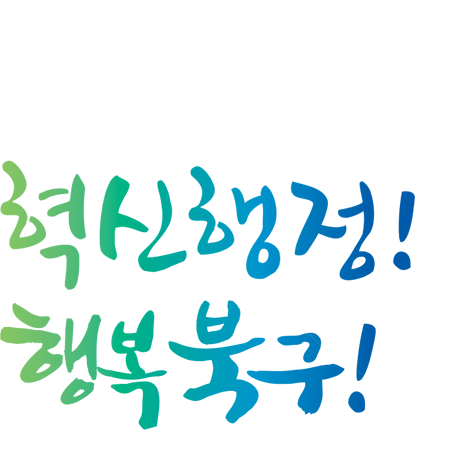
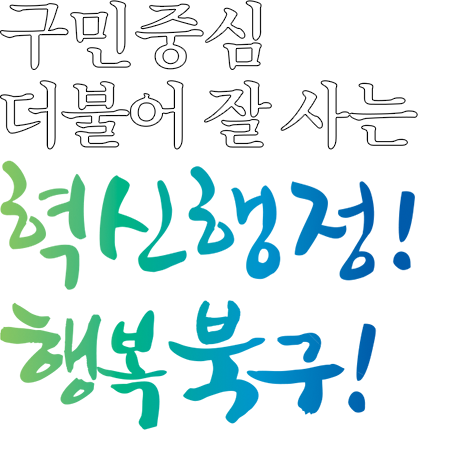
구청

Changed region(s): [[0.0, 0.0, 0.5911, 0.3422], [0.6222, 0.1556, 0.9333, 0.3422], [0.4356, 0.1867, 0.6222, 0.3422]]

diff --git a/북구청_홍보_사이트/js/mdata.js b/북구청_홍보_사이트/js/mdata.js
@@ -1,5 +1,6 @@
-// 메뉴 관련 데이터 JS - mdata.js ///////
+// main.html 메뉴 관련 데이터 JS - mdata.js //
 
+// .gnb의 각 메뉴마다 가지는 고유 데이터
 const mdata01 = {
     "마을공동체 활성화 지원사업": {
         "중흥3동주민자치위원회":[],
@@ -144,73 +145,91 @@ const mdata04 = {
     }
 }; // mdata04 //
 
+// .gnb에서 누른 목록에 따라 실행되는 동영상이나 좌측 목록, 배경색 등을 담은 배열
 let sdata = {
     마을공동체: {
         동영상: "./video/1A01.mp4",
-        사이드메뉴: mdata01
+        사이드메뉴: mdata01,
+        배경색: "blue_bg01"
     },
     마을공동체활성화지원사업: {
         동영상: "./video/1A01.mp4",
-        사이드메뉴: mdata01
+        사이드메뉴: mdata01,
+        배경색: "blue_bg01"
     },
     마을모임지원사업: {
         동영상: "./video/1B01.mp4",
-        사이드메뉴: mdata01
+        사이드메뉴: mdata01,
+        배경색: "blue_bg01"
     },
     광주형협치마을모델사업: {
         동영상: "./video/1C01.mp4",
-        사이드메뉴: mdata01
+        사이드메뉴: mdata01,
+        배경색: "blue_bg01"
     },
     미래학교: {
         동영상: "./video/2A01.mp4",
-        사이드메뉴: mdata02
+        사이드메뉴: mdata02,
+        배경색: "blue_bg02"
     },
     洞마을의제실행력제고워크숍: {
         동영상: "./video/2A01.mp4",
-        사이드메뉴: mdata02
+        사이드메뉴: mdata02,
+        배경색: "blue_bg02"
     },
     분야별성장지원워크숍: {
         동영상: "./video/2A07.mp4",
-        사이드메뉴: mdata02
+        사이드메뉴: mdata02,
+        배경색: "blue_bg02"
     },
     사회적경제기반교육: {
         동영상: "./video/2B01.mp4",
-        사이드메뉴: mdata02
+        사이드메뉴: mdata02,
+        배경색: "blue_bg02"
     },
     마을환경실천활동가양성교육: {
         동영상: "./video/2C01.mp4",
-        사이드메뉴: mdata02
+        사이드메뉴: mdata02,
+        배경색: "blue_bg02"
     },
     마을미디어주민활동가양성교육: {
         동영상: "./video/2C07.mp4",
-        사이드메뉴: mdata02
+        사이드메뉴: mdata02,
+        배경색: "blue_bg02"
     },
     마을분쟁해결지원센터: {
         동영상: "./video/3A01.mp4",
-        사이드메뉴: mdata03
+        사이드메뉴: mdata03,
+        배경색: "blue_bg03"
     },
     북구마을분쟁해결지원센터: {
         동영상: "./video/3A01.mp4",
-        사이드메뉴: mdata03
+        사이드메뉴: mdata03,
+        배경색: "blue_bg03"
     },
     소통방: {
         동영상: "./video/3B01.mp4",
-        사이드메뉴: mdata03
+        사이드메뉴: mdata03,
+        배경색: "blue_bg03"
     },
     부록: {
         동영상: "./video/4A01.mp4",
-        사이드메뉴: mdata04
+        사이드메뉴: mdata04,
+        배경색: "blue_bg04"
     },
     찾아가는어린이환경리더교육: {
         동영상: "./video/4A01.mp4",
-        사이드메뉴: mdata04
+        사이드메뉴: mdata04,
+        배경색: "blue_bg04"
     },
     마을활동가토크쇼: {
         동영상: "./video/4B01.mp4",
-        사이드메뉴: mdata04
+        사이드메뉴: mdata04,
+        배경색: "blue_bg04"
     },
     탄소중립그린마을동행: {
         동영상: "./video/4C01.mp4",
-        사이드메뉴: mdata04
+        사이드메뉴: mdata04,
+        배경색: "blue_bg04"
     }
 }; // sdata //

diff --git a/북구청_홍보_사이트/css/ani.css b/북구청_홍보_사이트/css/ani.css
@@ -5,14 +5,6 @@
 모든 애니메이션은 body.on 인 경우에 적용됨! */
 
 /* 메인 페이지 배경 이동 애니메이션 */
-/* body.on{
-    animation: bgMove 20s linear infinite forwards;
-} */
-@keyframes bgMove {
-    to{
-        background: url(../img/blue_bg01.jpg) no-repeat fixed left/cover;
-    }
-}
 
 .cbx{
     position: relative;
@@ -37,7 +29,7 @@
     animation: opacity01 1.5s ease-out .5s 1 forwards;
 }
 .slogan div{
-    background: url(../img/slogan01.png) no-repeat;
+    background: url(../img/slogan.png) no-repeat;
 }
 .slogan div:nth-child(1){
     width: 300px;
@@ -77,7 +69,7 @@
     left: 1000px;
     width: 240px;
     height: 231px;
-    background: url(../img/character02.png) no-repeat;
+    background: url(../img/character.png) no-repeat;
     background-position: 0px -290px;
     opacity:0;
     animation: opacity01 1.5s ease-out .5s 1 forwards;
@@ -90,7 +82,7 @@
     left: 900px;
     width: 86px;
     height: 102px;
-    background: url(../img/character02.png) no-repeat;
+    background: url(../img/character.png) no-repeat;
     background-position: -430px -290px;
     opacity: 0;
     animation:
@@ -128,7 +120,7 @@
     margin: 20px auto 0;
 }
 .villagers div{
-    background: url(../img/character02.png) no-repeat;
+    background: url(../img/character.png) no-repeat;
     opacity: 0;
 }
 .villagers div:nth-child(1){

diff --git a/북구청_홍보_사이트/css/main.css b/북구청_홍보_사이트/css/main.css
@@ -8,8 +8,6 @@
 
 body.on{
     background: url(../img/bg01.png) no-repeat fixed center/cover;
-    /* background: url(../img/abstract_bg01.jpg) no-repeat fixed center/cover; */
-    /* background: url(../img/blue_bg01.jpg) no-repeat fixed center/cover; */
 }
 body.off{
     background: url(../img/blue_bg02.jpg) no-repeat fixed right/cover;

diff --git a/북구청_홍보_사이트/js/common.js b/북구청_홍보_사이트/js/common.js
@@ -1,4 +1,4 @@
-// 구청 홍보 사이트 공통 JS - common.js //
+// index.html이랑 main.html양쪽다 적용되는 gnb 메뉴 JS - common.js //
 window.addEventListener("DOMContentLoaded", loadFn);
 
 function loadFn() {

diff --git a/북구청_홍보_사이트/js/bg.js b/북구청_홍보_사이트/js/bg.js
@@ -1,3 +1,5 @@
+// index.html 배경 변경 JS - bg.js //
+
 window.addEventListener("DOMContentLoaded", function () {
 
     const bgC = this.document.querySelector(".on");

diff --git a/북구청_홍보_사이트/js/main.js b/북구청_홍보_사이트/js/main.js
@@ -1,3 +1,5 @@
+// main.html 전용 JS - main.js
+
 let pm = location.href;
 console.log(pm.indexOf("?"));
 if (pm.indexOf("?") === -1) {
